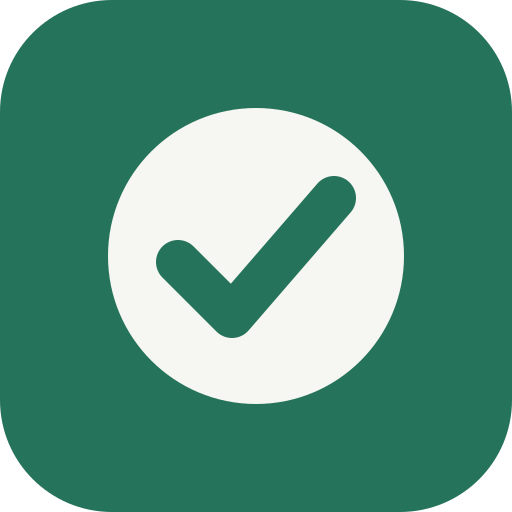
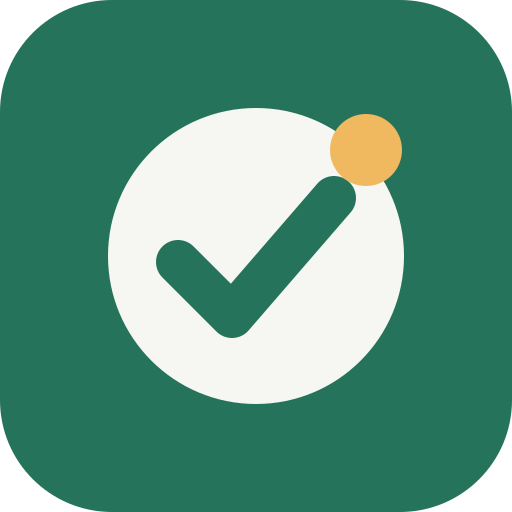
s

Changed region(s): [[0.625, 0.2188, 0.8125, 0.375]]

diff --git a/app.html b/app.html
@@ -12,7 +12,7 @@
     <meta name="mobile-web-app-capable" content="yes" />
     <title>Habit Day</title>
     <link rel="manifest" href="manifest.webmanifest?v=36" />
-    <link rel="icon" href="icon.svg?v=46" type="image/svg+xml" data-theme-icon="true" />
+    <link rel="icon" href="icon.svg?v=47" type="image/svg+xml" data-theme-icon="true" />
     <link rel="apple-touch-icon" href="apple-touch-icon.png?v=44" sizes="180x180" data-theme-icon="true" />
     <link rel="icon" href="icon-192.png?v=44" type="image/png" sizes="192x192" data-theme-icon="true" />
     <link rel="preconnect" href="https://fonts.googleapis.com" />

diff --git a/calendar.html b/calendar.html
@@ -7,7 +7,7 @@
       content="width=device-width, initial-scale=1.0, viewport-fit=cover"
     />
     <meta name="theme-color" content="#26735b" />
-    <link rel="icon" href="icon.svg?v=46" type="image/svg+xml" data-theme-icon="true" />
+    <link rel="icon" href="icon.svg?v=47" type="image/svg+xml" data-theme-icon="true" />
     <link rel="apple-touch-icon" href="apple-touch-icon.png?v=44" sizes="180x180" data-theme-icon="true" />
     <link rel="icon" href="icon-192.png?v=44" type="image/png" sizes="192x192" data-theme-icon="true" />
     <meta name="apple-mobile-web-app-capable" content="yes" />

diff --git a/photos.html b/photos.html
@@ -7,7 +7,7 @@
       content="width=device-width, initial-scale=1.0, viewport-fit=cover"
     />
     <meta name="theme-color" content="#26735b" />
-    <link rel="icon" href="icon.svg?v=46" type="image/svg+xml" data-theme-icon="true" />
+    <link rel="icon" href="icon.svg?v=47" type="image/svg+xml" data-theme-icon="true" />
     <link rel="apple-touch-icon" href="apple-touch-icon.png?v=44" sizes="180x180" data-theme-icon="true" />
     <link rel="icon" href="icon-192.png?v=44" type="image/png" sizes="192x192" data-theme-icon="true" />
     <meta name="apple-mobile-web-app-capable" content="yes" />

diff --git a/theme.js b/theme.js
@@ -1,6 +1,6 @@
 const themeStorageKey = "habit-theme";
 const themes = ["original", "kuromi", "friends", "gintama", "toothless"];
-const ICON_BUST = "46";
+const ICON_BUST = "47";
 
 const appIcons = {
   svg: "icon.svg",

diff --git a/weekly.html b/weekly.html
@@ -7,7 +7,7 @@
       content="width=device-width, initial-scale=1.0, viewport-fit=cover"
     />
     <meta name="theme-color" content="#26735b" />
-    <link rel="icon" href="icon.svg?v=46" type="image/svg+xml" data-theme-icon="true" />
+    <link rel="icon" href="icon.svg?v=47" type="image/svg+xml" data-theme-icon="true" />
     <link rel="apple-touch-icon" href="apple-touch-icon.png?v=44" sizes="180x180" data-theme-icon="true" />
     <link rel="icon" href="icon-192.png?v=44" type="image/png" sizes="192x192" data-theme-icon="true" />
     <meta name="apple-mobile-web-app-capable" content="yes" />